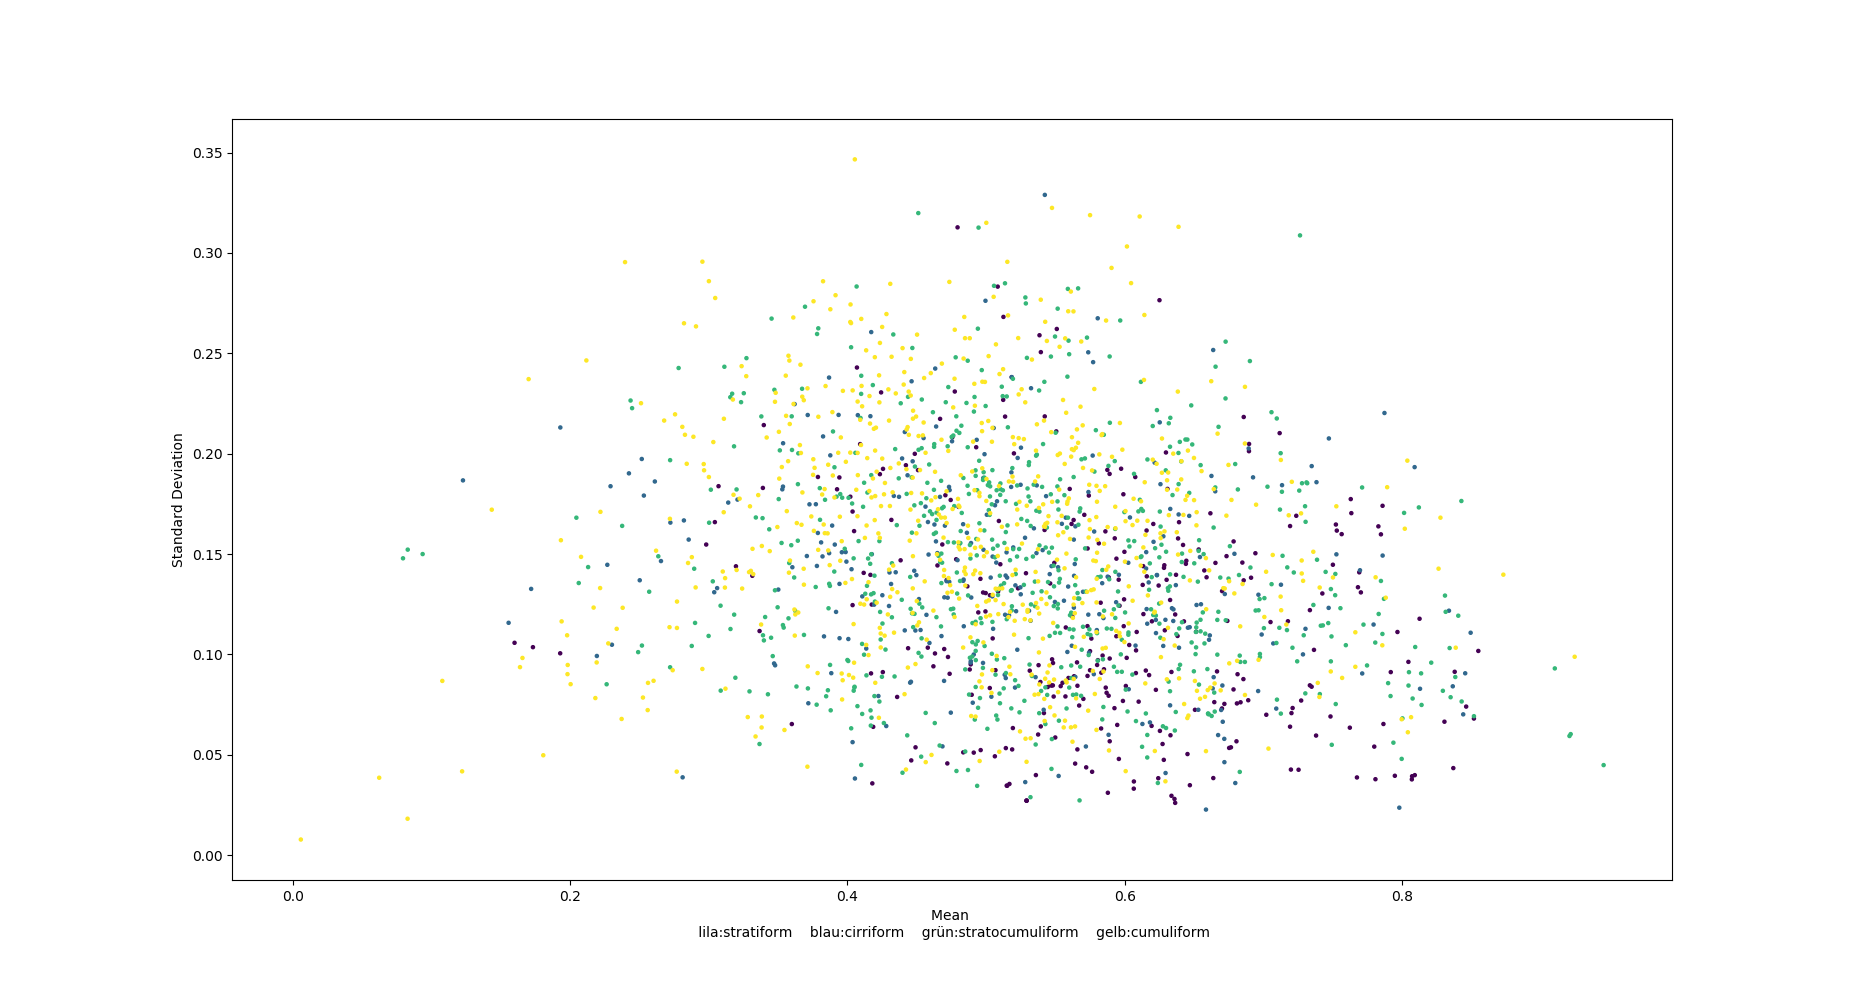
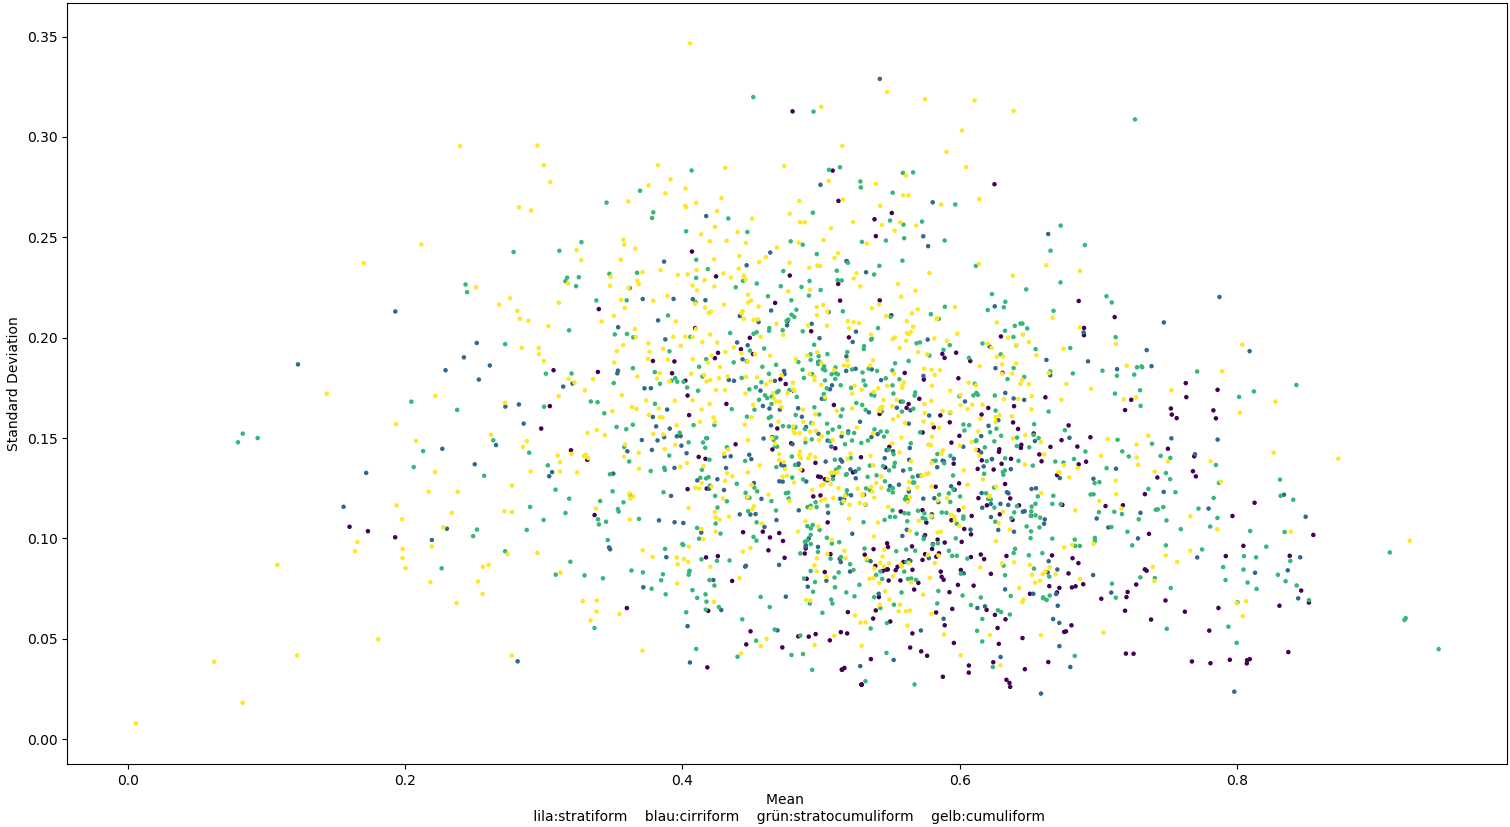
vergrößere den Mean/Std-Scatterplot

diff --git a/ausarbeitung/ausarbeitung.tex b/ausarbeitung/ausarbeitung.tex
@@ -193,8 +193,8 @@ Die höchste Genauigkeit, die wir mit dem klassischen Ansatz erzielen konnten, b
 
 Abbildung~\ref{fig:meanstd} zeigt, dass die verschiedenen Klassen mithilfe von Mittelwert und Standardabweichung nur schwer auseinanderzuhalten sind und sich nicht leicht in verschiedene Klassen trennen lassen. Trotzdem erreichen wir hier nur mit diesen beiden Merkmalen eine Genauigkeit von 40\%.
 \begin{figure}[h!]
-\centering
-\includegraphics[width=1.1\textwidth]{Scatterplot_mean_std.png} %wäre schön das größer zu bekommen, ohne dass es sich verschiebt 
+\hspace*{-3cm}
+\includegraphics[width=1.5\textwidth]{Scatterplot_mean_std.png}
 \caption{Scatterplot für Mittelwert und Standardabweichung}
 \label{fig:meanstd}
 \end{figure}
